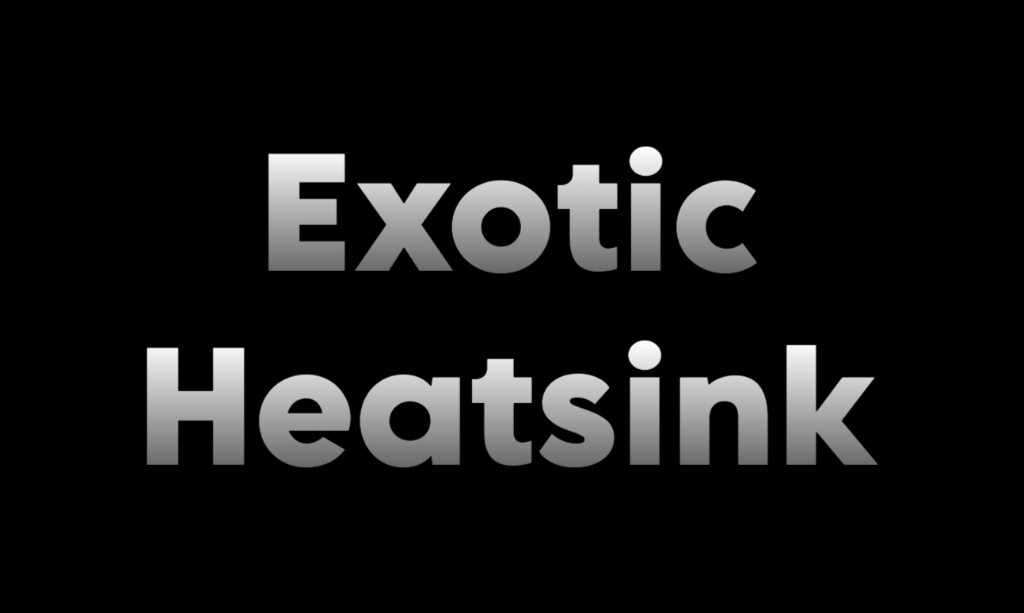
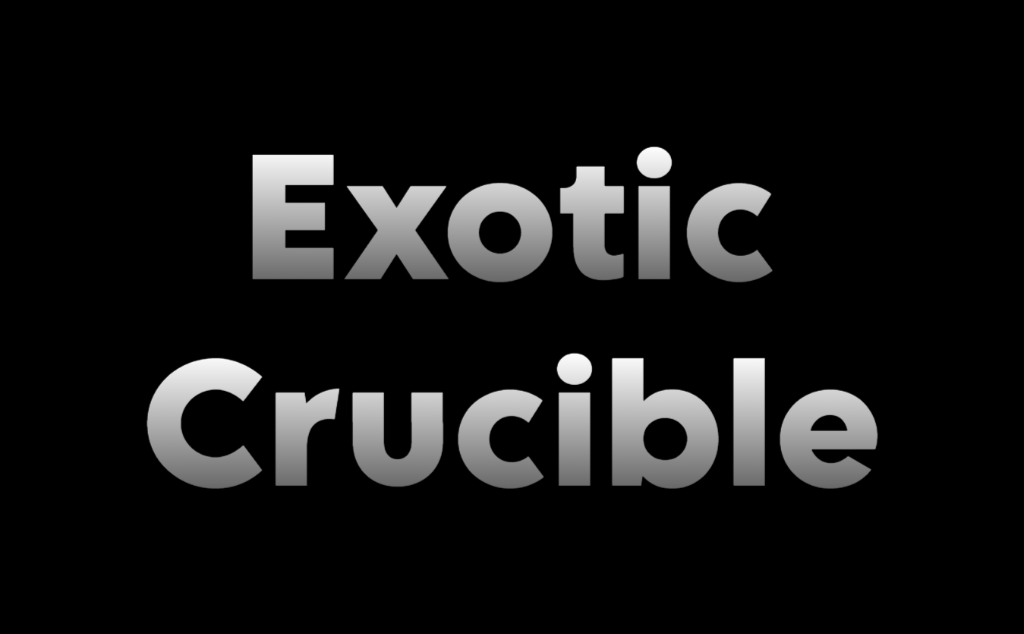
rename to crucible

Changed region(s): [[0.125, 0.5579, 0.875, 0.7749], [0.2188, 0.217, 0.75, 0.4649]]

diff --git a/1.5/Source/CompShipExoticCrucible.cs b/1.5/Source/CompShipExoticCrucible.cs
@@ -2,22 +2,22 @@
 using SaveOurShip2;
 using Verse;
 
-namespace ExoticHeatsink;
+namespace ExoticCrucible;
 
 /// <summary>
-/// The component implementation for the exotic heatsink
+/// The component implementation for the exotic crucible
 /// </summary>
 [StaticConstructorOnStartup]
-public class CompShipHeatSink_Exotic : CompShipHeatSink
+public class CompShipExoticCrucible : CompShipHeatSink
 {
 #if DEBUG
-    [TweakValue("ExoticHeatsink", 0.001f, 1000f)]
+    [TweakValue("ExoticCrucible", 0.001f, 1000f)]
     public static float tweakReactionSpeedMultiplier = 1f;
 
-    [TweakValue("ExoticHeatsink", 0.001f, 1000f)]
+    [TweakValue("ExoticCrucible", 0.001f, 1000f)]
     public static float tweakReactionHeatBonusMultiplier = 1f;
 
-    [TweakValue("ExoticHeatsink", -5, 5)]
+    [TweakValue("ExoticCrucible", -5, 5)]
     public static float progressBarOffsetZ = -0.9f;
 #endif
 
@@ -29,7 +29,7 @@ public class CompShipHeatSink_Exotic : CompShipHeatSink
     public float reactionWorkLeft;
 
     /// <summary>
-    /// Whether the reaction can occur with the current heat, power, and heatsink state
+    /// Whether the reaction can occur with the current heat, power, and exotic crucible state
     /// </summary>
     public bool CanReact => heatStored >= Props.reactionMinimumHeat && PowerTrader.PowerOn && !Disabled;
 
@@ -44,7 +44,7 @@ public class CompShipHeatSink_Exotic : CompShipHeatSink
 
             var speed = Props.reactionSpeedBase;
 
-            speed *= ExoticHeatsinkSettings.globalReactionSpeedMultiplier;
+            speed *= ExoticCrucibleSettings.globalReactionSpeedMultiplier;
 
 #if DEBUG
             speed *= tweakReactionSpeedMultiplier;
@@ -55,7 +55,7 @@ public class CompShipHeatSink_Exotic : CompShipHeatSink
             {
                 speed *= heatStored - Props.reactionMinimumHeat;
                 speed *= Props.reactionHeatBonus;
-                speed *= ExoticHeatsinkSettings.globalReactionHeatBonusMultiplier;
+                speed *= ExoticCrucibleSettings.globalReactionHeatBonusMultiplier;
 #if DEBUG
                 speed *= tweakReactionHeatBonusMultiplier;
 #endif
@@ -71,9 +71,9 @@ public class CompShipHeatSink_Exotic : CompShipHeatSink
     public CompPowerTrader PowerTrader => (CompPowerTrader)powerComp;
 
     /// <summary>
-    /// The properties of the exotic heat sink
+    /// The properties of the exotic crucible
     /// </summary>
-    public new CompProps_ShipHeatSinkExotic Props => (CompProps_ShipHeatSinkExotic)props;
+    public new CompProps_ShipExoticCrucible Props => (CompProps_ShipExoticCrucible)props;
 
     /// <summary>
     /// Expose data to save/load

diff --git a/1.5/Source/ExoticHeatsinkSettings.cs b/1.5/Source/ExoticHeatsinkSettings.cs
@@ -2,12 +2,12 @@
 using UnityEngine;
 using Verse;
 
-namespace ExoticHeatsink;
+namespace ExoticCrucible;
 
 /// <summary>
 /// The settings for the mod
 /// </summary>
-public class ExoticHeatsinkSettings : ModSettings
+public class ExoticCrucibleSettings : ModSettings
 {
     /// <summary>
     /// The global multiplier applied to the reaction speed
@@ -38,15 +38,15 @@ public class ExoticHeatsinkSettings : ModSettings
         var listing_Standard = new Listing_Standard();
         listing_Standard.Begin(inRect);
 
-        listing_Standard.Label("ExoticHeatsink.GlobalReactionSpeedMultiplier".Translate() + ": " + globalReactionSpeedMultiplier);
+        listing_Standard.Label("ExoticCrucible.GlobalReactionSpeedMultiplier".Translate() + ": " + globalReactionSpeedMultiplier);
         globalReactionSpeedMultiplier = listing_Standard.Slider(globalReactionSpeedMultiplier, 0.1f, 10f);
 
-        listing_Standard.Label("ExoticHeatsink.GlobalReactionHeatBonusMultiplier".Translate() + ": " + globalReactionHeatBonusMultiplier);
+        listing_Standard.Label("ExoticCrucible.GlobalReactionHeatBonusMultiplier".Translate() + ": " + globalReactionHeatBonusMultiplier);
         globalReactionHeatBonusMultiplier = listing_Standard.Slider(globalReactionHeatBonusMultiplier, 0.1f, 10f);
 
         listing_Standard.Gap();
 
-        if (listing_Standard.ButtonText("ExoticHeatsink.ResetSettings".Translate()))
+        if (listing_Standard.ButtonText("ExoticCrucible.ResetSettings".Translate()))
         {
             ResetSettings();
         }

diff --git a/1.5/Source/ExoticHeatsink.cs b/1.5/Source/ExoticHeatsink.cs
@@ -1,25 +1,25 @@
 using UnityEngine;
 using Verse;
 
-namespace ExoticHeatsink;
+namespace ExoticCrucible;
 
 /// <summary>
-/// The main class for the ExoticHeatsink mod
+/// The main class for the ExoticCrucible mod
 /// </summary>
-public class ExoticHeatsink : Mod
+public class ExoticCrucible : Mod
 {
     /// <summary>
     /// The settings for the mod
     /// </summary>
-    public ExoticHeatsinkSettings settings;
+    public ExoticCrucibleSettings settings;
 
     /// <summary>
     /// Constructor for the mod class to get the settings
     /// </summary>
     /// <param name="content"></param>
-    public ExoticHeatsink(ModContentPack content) : base(content)
+    public ExoticCrucible(ModContentPack content) : base(content)
     {
-        settings = GetSettings<ExoticHeatsinkSettings>();
+        settings = GetSettings<ExoticCrucibleSettings>();
     }
 
     /// <summary>
@@ -36,5 +36,5 @@ public class ExoticHeatsink : Mod
     /// Add the settings category
     /// </summary>
     /// <returns></returns>
-    public override string SettingsCategory() => "ExoticHeatsink".Translate();
+    public override string SettingsCategory() => "ExoticCrucible".Translate();
 }

diff --git a/1.5/Source/Properties/AssemblyInfo.cs b/1.5/Source/Properties/AssemblyInfo.cs
@@ -5,11 +5,11 @@ using System.Runtime.InteropServices;
 // General Information about an assembly is controlled through the following
 // set of attributes. Change these attribute values to modify the information
 // associated with an assembly.
-[assembly: AssemblyTitle("ExoticHeatsink")]
+[assembly: AssemblyTitle("ExoticCrucible")]
 [assembly: AssemblyDescription("")]
 [assembly: AssemblyConfiguration("")]
 [assembly: AssemblyCompany("")]
-[assembly: AssemblyProduct("ExoticHeatsink")]
+[assembly: AssemblyProduct("ExoticCrucible")]
 [assembly: AssemblyCopyright("Copyright ©  2024")]
 [assembly: AssemblyTrademark("")]
 [assembly: AssemblyCulture("")]

diff --git a/1.5/Source/CompProps_ShipExoticCrucible.cs b/1.5/Source/CompProps_ShipExoticCrucible.cs
@@ -1,12 +1,12 @@
 using SaveOurShip2;
 using Verse;
 
-namespace ExoticHeatsink;
+namespace ExoticCrucible;
 
 /// <summary>
-/// The component properties for the exotic heatsink
+/// The component properties for the exotic crucible
 /// </summary>
-public class CompProps_ShipHeatSinkExotic : CompProps_ShipHeat
+public class CompProps_ShipExoticCrucible : CompProps_ShipHeat
 {
     /// <summary>
     /// The amount of work required to complete the reaction

diff --git a/README.md b/README.md
@@ -1,4 +1,4 @@
-# ![ExoticHeatsink](./About/Preview.png)
+# ![Exotic Crucible](./About/Preview.png)
 
 Use your ship heat to produce exotic particles!
 
@@ -6,7 +6,7 @@ Use your ship heat to produce exotic particles!
 
 ## Features
 
-Adds a new heatsink for Save Our Ship 2 to produce exotic particles from excess hull heat and power.
+Adds a new exotic crucible for Save Our Ship 2 to produce exotic particles from excess hull heat and power.
 
 ## Existing Saves
 
